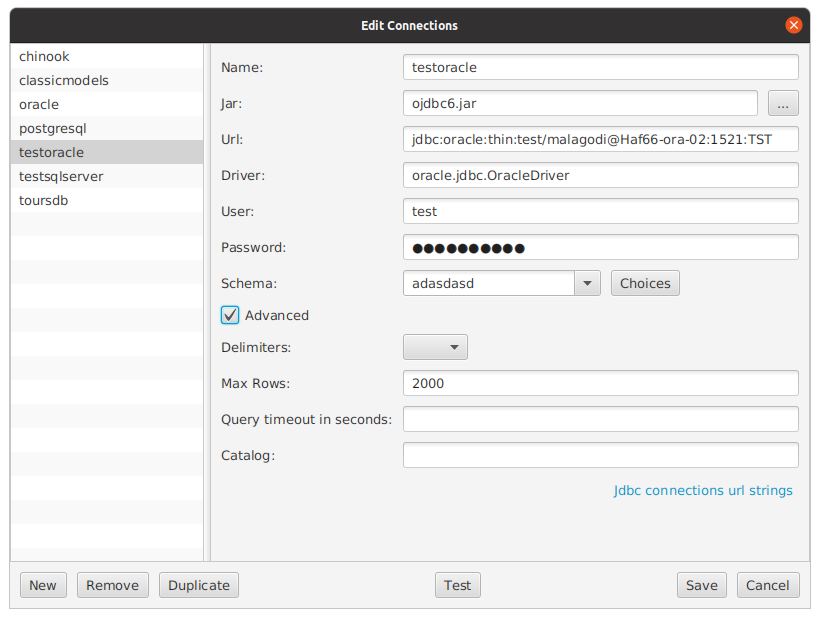
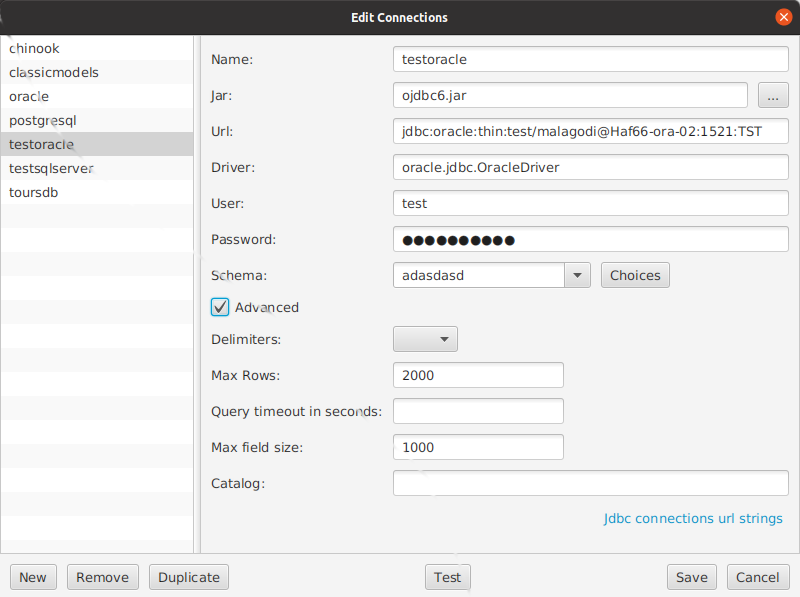
updated the documentation for #105 (limit field size)

diff --git a/docs/Connections-editor.md b/docs/Connections-editor.md
@@ -28,7 +28,8 @@ And optionally (generally not needed):
 * **Delimiters**. If the database contains tables or columns that have as name reserved words in the database (like GROUP or RULE), queries don't work unless these names are delimited with special characters. These characters vary between databases, but they are either double quotes or squared brackets. 
 * **Query timeout in seconds**: for each query (a new tab) sets a maximum limit to the query duration in seconds. This timeout acts both in the query execution itself and in loading the query result. If not specified, this timeout is 10 seconds.
 * **Max rows**. The number of rows resulting from queries are limited to 500 by default: you don't want to use local memory, network and database resources to read many table rows, not to mention the queries performance. If you want to see other rows, it is generally enough to change the query parameters or the order of the resulting rows. But there are some cases in which you want to have a larger rows number limit. 
- * **Catalog**. similar concept to the schema, used to identify a specific database, added to solve issue [#78](https://github.com/aferrandi/dbtarzan/issues/78).
+* **Max field size**. Used to improve the performance of queries on tables with large content columns, for example large strings (kilobytes or more). Setting the max field size on a database limits the amount of data (in bytes) read for each column in the normal query, showing only the start of it when it is too long. To see the whole column content display a specific row in the [Vertical row view](Vertical-row-view), which does not limit the size of the columns' content.
+* **Catalog**. similar concept to the schema, used to identify a specific database, added to solve issue [#78](https://github.com/aferrandi/dbtarzan/issues/78).
 
 
 To **update** the definition of a database connection:

diff --git a/sourceforge/README.md b/sourceforge/README.md
@@ -11,6 +11,10 @@ dbtarzan_XXX_all.deb : Debian pacakge for Linux. Download it and install it as a
 DBTarzan changelog
 =================
 
+- Release 1.24
+
+Handles better tables with big columns' content.
+
 - Release 1.23
 
 Upgraded to JavaFX 14
@@ -21,13 +25,5 @@ Possibility to copy the column names of the table from the "columns description 
 
 Have always a row selected in an open table, so that it is possible to show a vertical row view.
 
-
-- Release 1.22
-
-Fields/columns suggestions in the where clause text box
-
-Ctrl-Del closes the current tab
-
-DBTarzan as snap now opens the browser to show the help/documentation
 
 

diff --git a/docs/Vertical-row-view.md b/docs/Vertical-row-view.md
@@ -26,3 +26,5 @@ The vertical view shows vertically all the fields of the selected row. This is b
 The vertical row view can be shown or hidden very easily (it is just needed to press Ctrl-R) and is supposed to help only when there is a need for it, without being annoying.
 
 Additionally it is possible to copy the content of individual fields from the vertical row, differently from the [copy menu](Copy-Data) of the table.
+
+The vertical row displays the whole content of the fields of the row, also when they are big.
